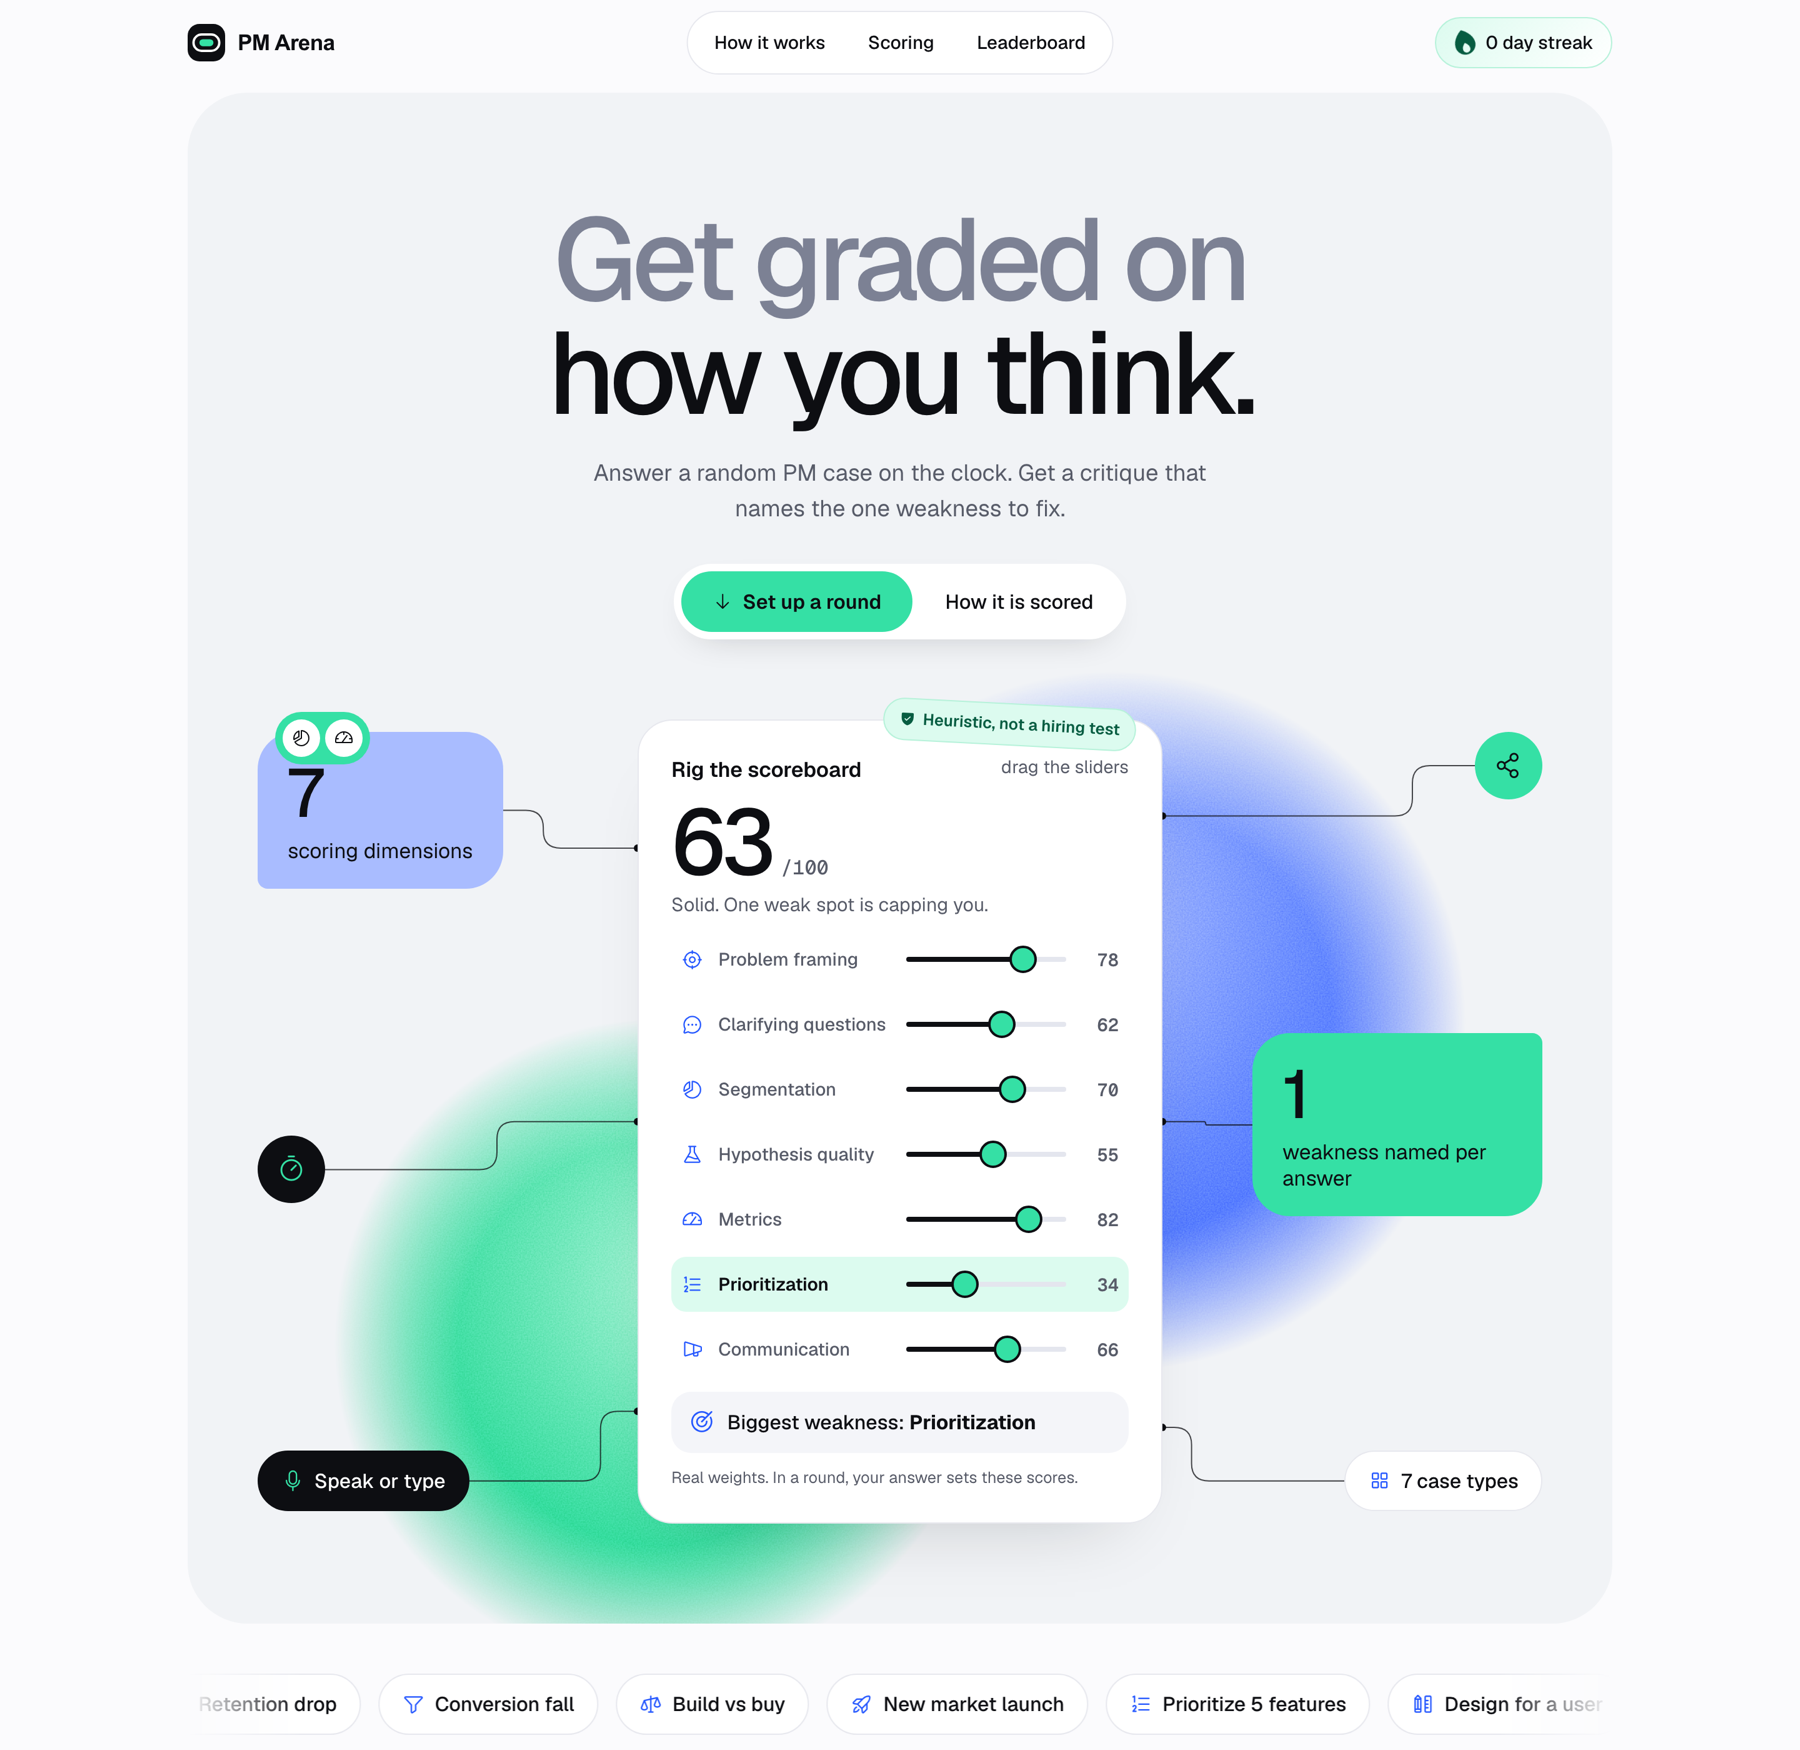
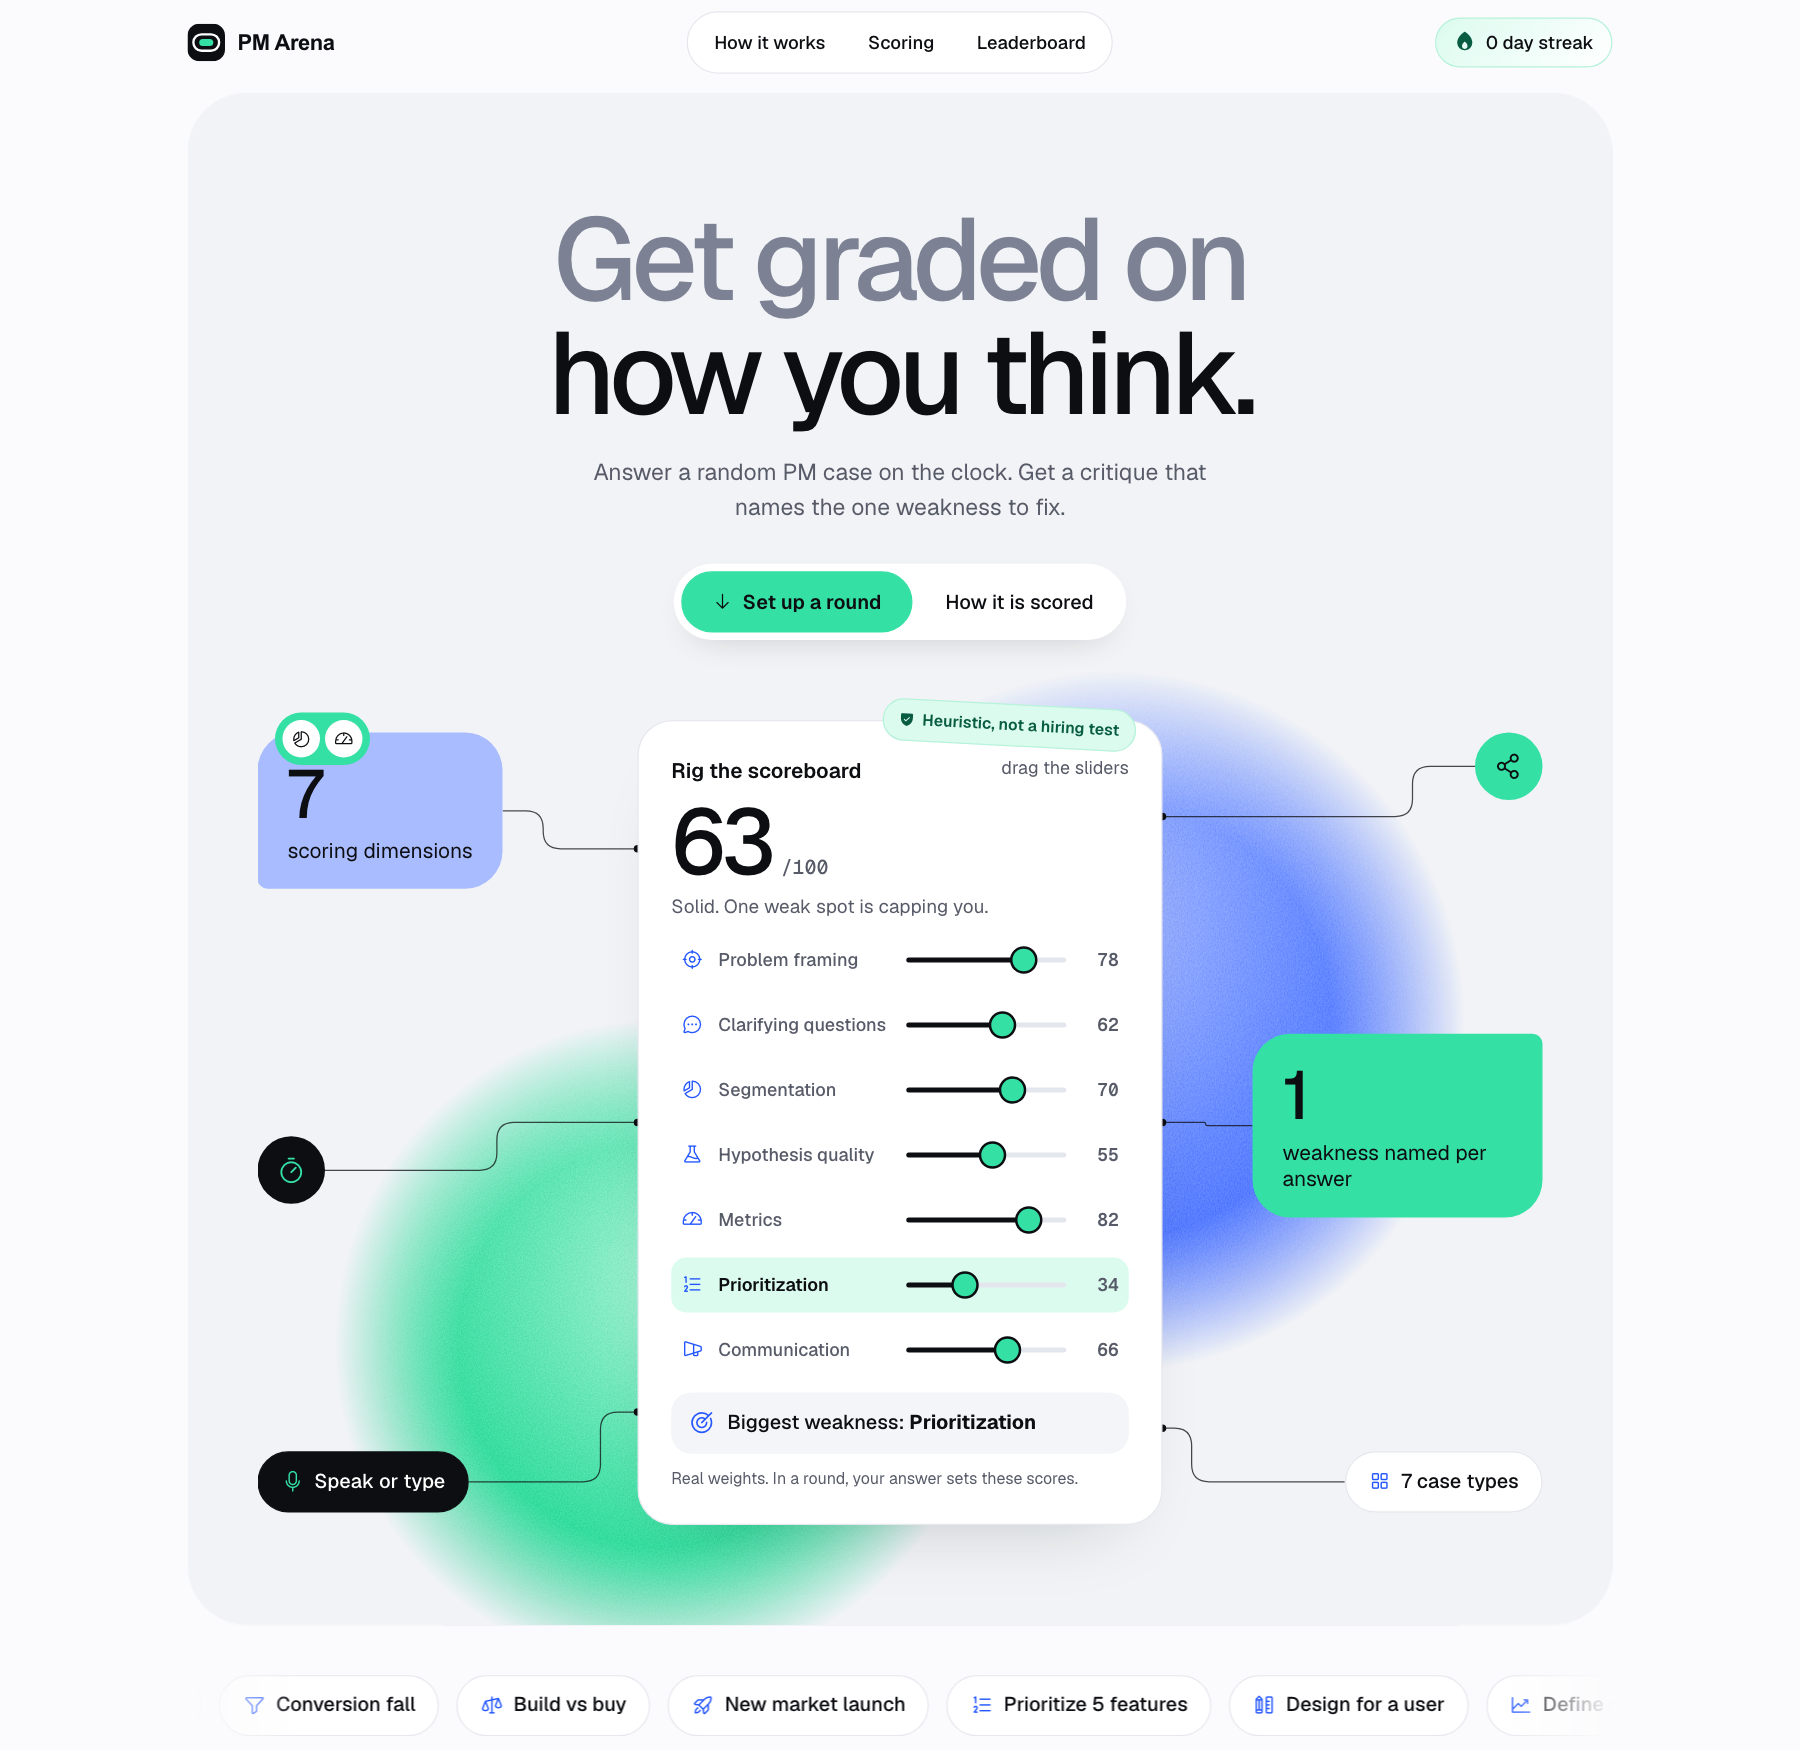
Add result and critique screenshots; script to regenerate screenshots
- result.png in the README, critique.png in the user guide
- scripts/capture-screenshots.js plays a scripted round and captures hero,
  result and critique at about 1800px wide
- CONTRIBUTING documents the capture workflow

diff --git a/scripts/capture-screenshots.js b/scripts/capture-screenshots.js
@@ -1,0 +1,64 @@
+#!/usr/bin/env node
+/* Regenerates the README screenshots in docs/images:
+     hero.png      the home page
+     result.png    the result screen after a scripted round
+     critique.png  the expanded critique list
+
+   Usage:
+     npm i --no-save playwright-core
+     CHROME_PATH=/path/to/chromium-or-headless-shell node scripts/capture-screenshots.js
+
+   Optional: URL (default the live site), OUT_DIR (default docs/images).
+   Renders at 1440 CSS px wide and 1.25x, so the files come out about 1800 px
+   wide and need no resizing. Nothing is posted to the leaderboard. */
+const path = require('node:path');
+const { chromium } = require('playwright-core');
+
+const URL = process.env.URL || 'https://pm-arena-phi.vercel.app/';
+const OUT = process.env.OUT_DIR || path.join(__dirname, '..', 'docs', 'images');
+const EXE = process.env.CHROME_PATH;
+if (!EXE) { console.error('Set CHROME_PATH to a Chromium or chrome-headless-shell binary.'); process.exit(1); }
+
+/* A realistic answer with a few gaps, so the result shows a mid score and a clear weakness. */
+const ANSWER = `Questions first: when exactly did it start, and was it sudden or gradual? Does it hit all platforms or only one? How is D30 retention defined, and did tracking change?
+The goal is to find out whether this drop is real and recover it within two weeks. I will assume tracking is correct until I verify the data.
+I think the paid campaign brought in lower-intent users because volume rose while retention fell, so I would compare retention across channels. It could also be the recent redesign hurting onboarding.
+I would cut it by signup cohort and platform, starting with the paid cohorts.
+The main metric is D30 retention, and I would watch new-user volume as well.
+I would rank the causes by effort and start with the channel comparison, then look at the redesign, and defer any new feature work.`;
+
+(async () => {
+  const browser = await chromium.launch({ executablePath: EXE });
+  const page = await (await browser.newContext({ viewport: { width: 1440, height: 1500 }, deviceScaleFactor: 1.25 })).newPage();
+
+  // Hero: the home page, with the whole scoring card and the ticker in frame.
+  await page.goto(URL, { waitUntil: 'networkidle' });
+  await page.waitForSelector('#prows input');
+  await page.waitForTimeout(2500);
+  await page.screenshot({ path: path.join(OUT, 'hero.png'), clip: { x: 0, y: 0, width: 1440, height: 1400 } });
+
+  // Result: play a scripted round (retention case, so the answer is on topic).
+  await page.selectOption('#type', 'retention');
+  await page.click('#go');
+  await page.waitForSelector('#ans');
+  await page.fill('#ans', ANSWER);
+  await page.click('#submit');
+  await page.waitForSelector('#drillw');
+  await page.waitForTimeout(3500);                       // count-up and entry animations
+  await page.evaluate(() => document.querySelectorAll('.confetti').forEach((e) => e.remove()));
+  await page.screenshot({ path: path.join(OUT, 'result.png'), clip: { x: 0, y: 0, width: 1440, height: 1100 } });
+
+  // Critique: expand the biggest weakness so "what was missing" is visible.
+  await page.evaluate(() => {
+    const w = document.querySelector('.wkt h2').textContent.trim();
+    const d = [...document.querySelectorAll('details.dim')].find((x) => x.querySelector('summary b').textContent.trim() === w);
+    if (d) d.open = true;
+  });
+  await page.waitForTimeout(400);
+  const box = await page.locator('section.sec.cols').first().boundingBox();
+  await page.screenshot({ path: path.join(OUT, 'critique.png'), fullPage: true, clip: { x: Math.max(0, box.x - 40), y: box.y - 10, width: Math.min(1440, box.width + 80), height: box.height + 50 } });
+
+  const info = await page.evaluate(() => ({ score: document.querySelector('.ring .num b').textContent, weakest: document.querySelector('.wkt h2').textContent }));
+  console.log(`Wrote hero.png, result.png and critique.png to ${OUT} (score ${info.score}, weakest ${info.weakest}).`);
+  await browser.close();
+})().catch((e) => { console.error('Capture failed:', e.message); process.exit(1); });

diff --git a/CONTRIBUTING.md b/CONTRIBUTING.md
@@ -45,18 +45,16 @@ See [docs/deploying.md](docs/deploying.md) to run the API too.
 - Add a line to the top of [CHANGELOG.md](CHANGELOG.md) for anything a user would notice, and update the docs that describe the behavior.
 - UI changes: check phone width and keyboard use, and respect `prefers-reduced-motion`.
 
-## Updating the README screenshot
+## Updating the screenshots
 
-`docs/images/hero.png` is a capture of the live home page. Recapture it after a visual change, for example with a headless Chromium (Playwright's works):
+`docs/images/` holds three captures of the live site (`hero.png`, `result.png`, `critique.png`), used by the README and the user guide. Regenerate them after a visual change with the script, which plays a scripted round and never posts to the leaderboard:
 
 ```bash
-chrome-headless-shell --headless --hide-scrollbars --force-device-scale-factor=2 \
-  --window-size=1440,1400 --virtual-time-budget=9000 \
-  --screenshot=docs/images/hero.png https://pm-arena-phi.vercel.app/
-sips --resampleWidth 1800 docs/images/hero.png --out docs/images/hero.png   # macOS; keeps the file near 800 KB
+npm i --no-save playwright-core
+CHROME_PATH=/path/to/chromium-or-chrome-headless-shell node scripts/capture-screenshots.js
 ```
 
-Look at the result before committing: the whole scoring card and the ticker should be in frame.
+Playwright's own Chromium works (`npx playwright install chromium` downloads it). Set `URL` to capture a local or preview deployment instead of the live site. Look at the three files before committing: the whole scoring card and the ticker should be in frame, and the result should show a mid-range score with the biggest weakness expanded.
 
 ## Reporting bugs
 

diff --git a/README.md b/README.md
@@ -41,6 +41,8 @@
 2. **Answer.** Section starters (Questions, Segments, Hypothesis, Metrics, Recommend) drop a scaffold into the answer box.
 3. **Review.** Open each dimension to see what was detected and missing, then work through the follow-up questions out loud.
 
+![The result screen: a score ring, the single biggest weakness with a drill button, and sharing options](docs/images/result.png)
+
 New to it? Read the [user guide](docs/user-guide.md).
 
 ## How scoring works
@@ -102,7 +104,8 @@ engine.js           case generator and scoring engine (runs in browser and Node)
 api/scores.js       shared leaderboard function
 api/grade.js        AI coach notes function
 test/               unit, calibration and documentation tests
-docs/               guides and reference
+docs/               guides, reference and screenshots
+scripts/            screenshot capture
 vercel.json         function settings
 ```
 

diff --git a/docs/user-guide.md b/docs/user-guide.md
@@ -47,6 +47,8 @@ Aim for 150 to 400 words in a 10-minute round. Under 30 words does not count at 
 - **Practise next** lists follow-up questions an interviewer could ask about your three weakest areas. Answer them out loud.
 - **AI coach notes** appear only if the site has them enabled. See [AI coach notes](#ai-coach-notes).
 
+![The full critique with the weakest dimension expanded, showing what the scorer found, what was missing, and a fix written for the case](images/critique.png)
+
 ## Drills
 
 A drill is a 3-minute round on one dimension.

diff --git a/CHANGELOG.md b/CHANGELOG.md
@@ -5,7 +5,7 @@ All notable changes are listed here, newest first. The format follows [Keep a Ch
 ## 2026-11-05
 
 ### Added
-- Hero screenshot in the README, and instructions for refreshing it in CONTRIBUTING.
+- Hero and result screenshots in the README, a critique screenshot in the user guide, and `scripts/capture-screenshots.js` to regenerate them.
 
 ### Fixed
 - Phone layout: the hero sliders are full width with a 30px touch area and larger thumbs, instead of a 63px-wide strip.
